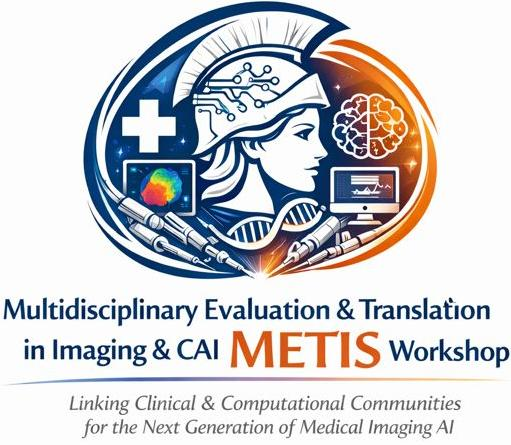
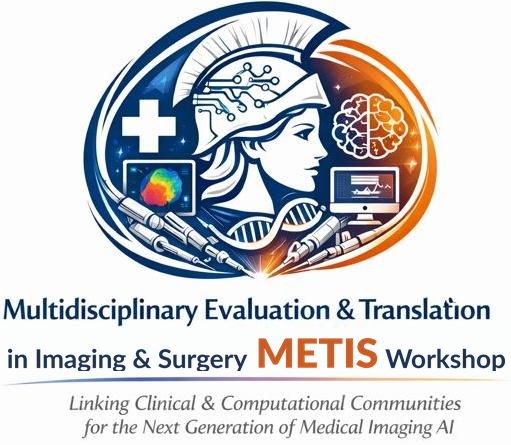
Update workshop graphics to Multidisciplinary Evaluation & Translation in Imaging & Surgery

Changed region(s): [[0.0, 0.7303, 0.998, 0.8472]]

diff --git a/index.html b/index.html
@@ -8,7 +8,7 @@
   <meta name="keywords" content="METIS, MICCAI 2026, Medical Imaging AI, Clinical Translation, Workshop, Computer Assisted Intervention, Strasbourg">
   <meta property="og:title" content="MÉTIS Workshop — MICCAI 2026">
   <meta property="og:description" content="Linking Clinical &amp; Computational Communities for the Next Generation of Medical Imaging AI">
-  <meta property="og:image" content="assets/metis.jpg">
+  <meta property="og:image" content="assets/metis.jpg?v=2">
   <meta property="og:type" content="website">
   <link rel="icon" href="assets/metis-logo.jpg" type="image/jpeg">
   <link rel="stylesheet" href="css/styles.css?v=42">
@@ -46,7 +46,7 @@
     <div class="blob blob--1 parallax-layer" data-speed="0.3"></div>
     <div class="blob blob--2 parallax-layer" data-speed="-0.2"></div>
     <div class="hero-content">
-      <img src="assets/metis-main.jpg" alt="MÉTIS Workshop Logo" class="hero-logo">
+      <img src="assets/metis-main.jpg?v=2" alt="MÉTIS Workshop Logo" class="hero-logo">
 
       <div class="hero-badge">
         <img src="assets/miccai2026-logo-france.png" alt="MICCAI 2026">
@@ -86,7 +86,7 @@
 
       <div class="about-grid">
         <div class="about-image reveal" data-reveal="left">
-          <img src="assets/metis-main.jpg" alt="MÉTIS Workshop — Linking Clinical & Computational Communities">
+          <img src="assets/metis-main.jpg?v=2" alt="MÉTIS Workshop — Linking Clinical &amp; Computational Communities">
         </div>
         <div class="about-text reveal" data-reveal="right">
           <h3>The MÉTIS Programme</h3>
